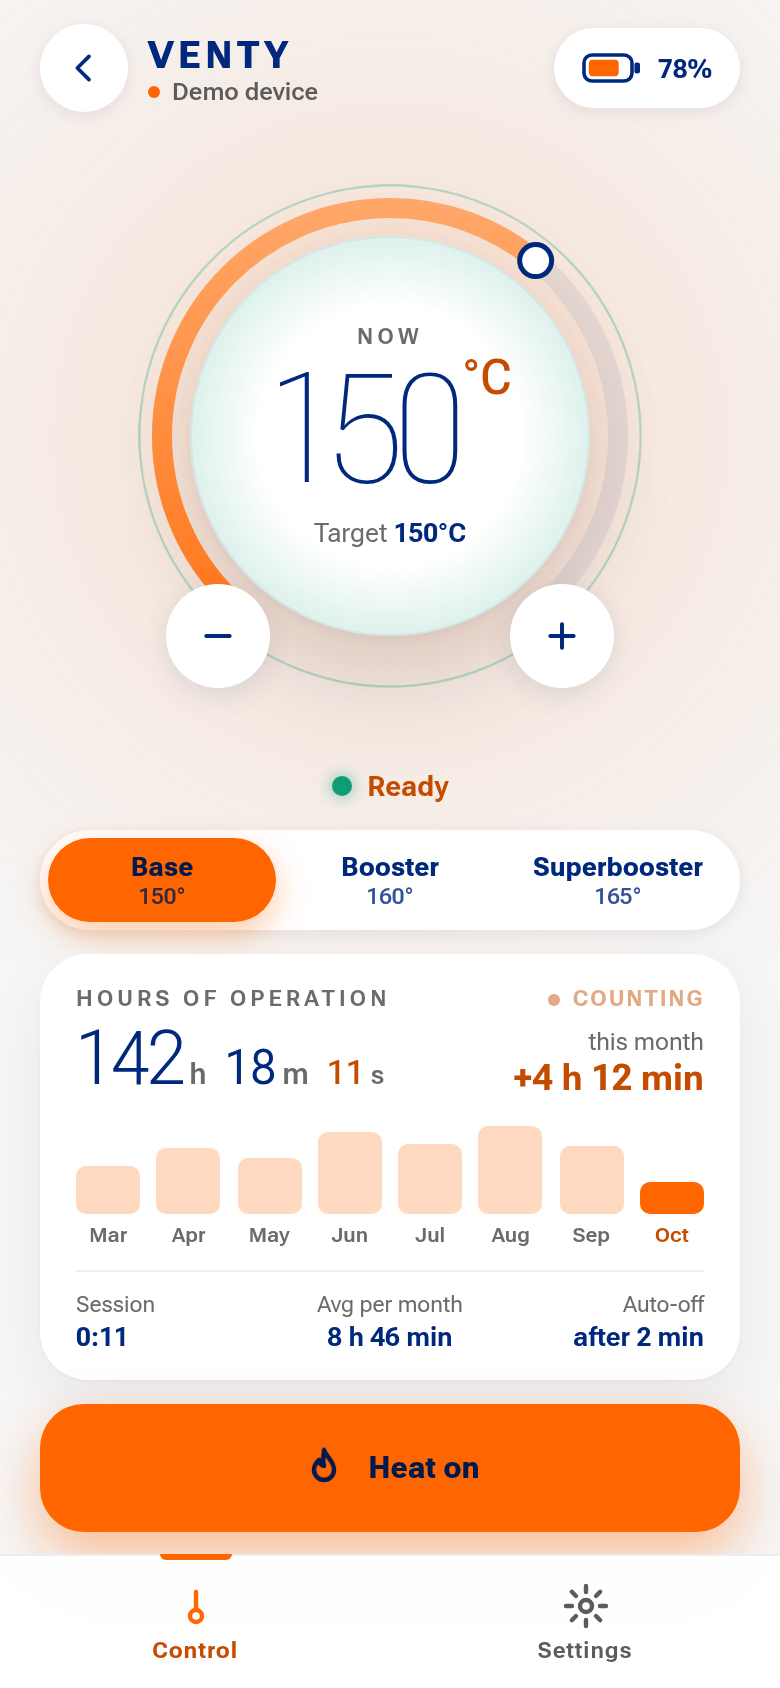
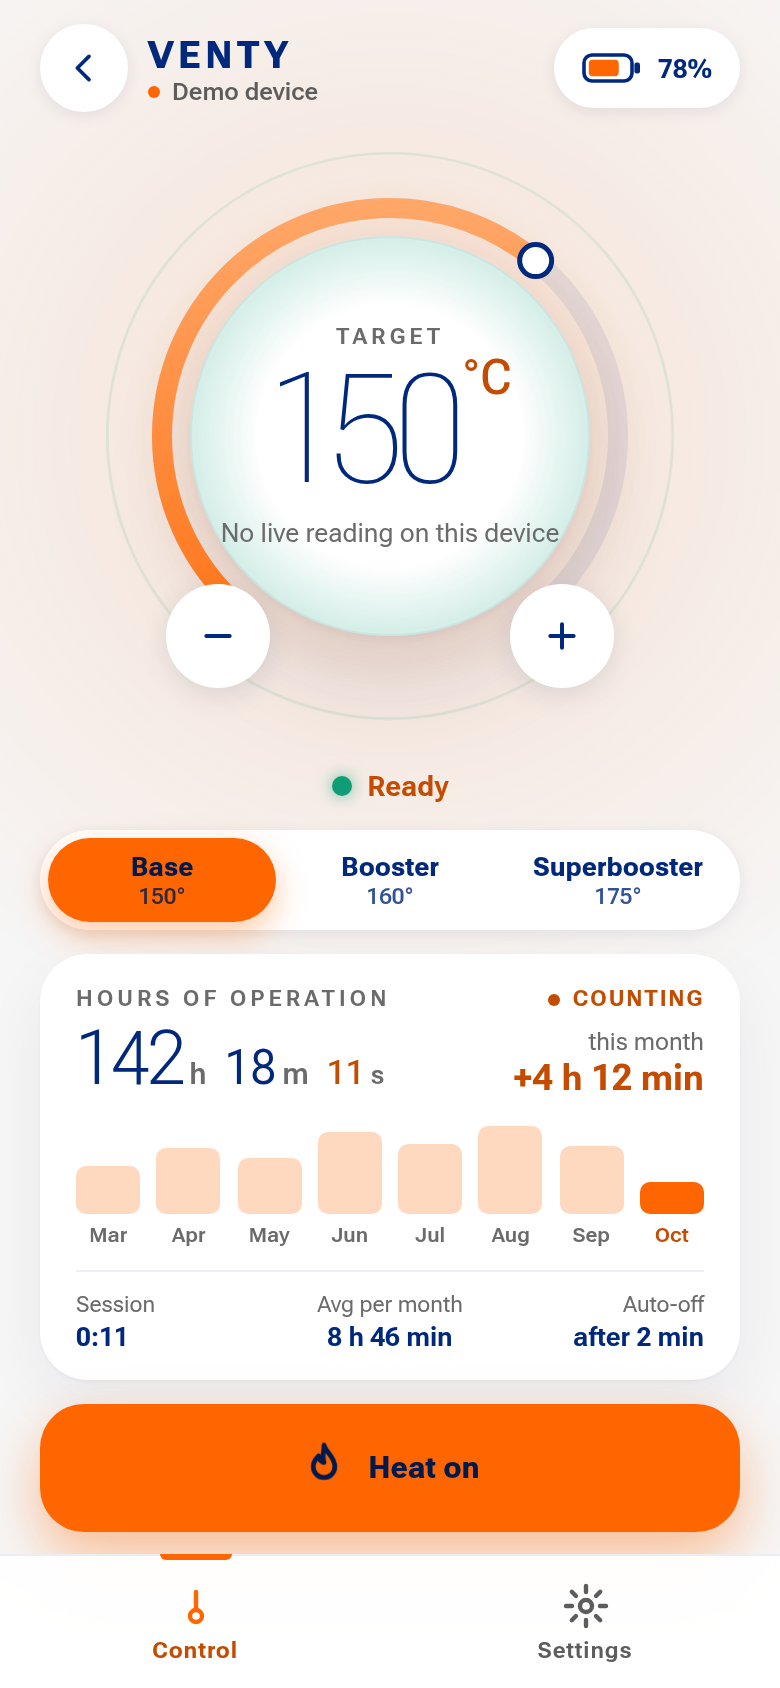
README: VENTY shows the target only, battery voltage, VOLCANO diagnostics, MIGHTY has no Bluetooth
Claude-Session: https://claude.ai/code/session_013Jeydq6niRkUQFhdCJUVJk

diff --git a/README.md b/README.md
@@ -61,12 +61,13 @@ built from the protocol and covered by unit tests.
 | | VENTY | VEAZY | CRAFTY+ | CRAFTY ≥ V02.51 | CRAFTY < V02.51 | VOLCANO HYBRID |
 |---|:---:|:---:|:---:|:---:|:---:|:---:|
 | Auto-connect | ✓ | ✓ | ✅ | ✓ | ✓ | ✓ |
-| Temperature and target | ✓ | ✓ | ✅ | ✓ | ✓ | ✓ |
+| Temperature and target | ✓⁶ | ✓⁶ | ✅ | ✓ | ✓ | ✓ |
 | Heater on / off from the app | ✓ | ✓ | ✅ | ✓ | —¹ | ✓ |
 | Status mirrors the LED | ✓ | ✓ | ✅ | ✓ | ✓ | ✓² |
 | Booster / Superbooster | ✓ | ✓ | ✅³ | ✓³ | ✓³ | — |
 | Booster / Superbooster offsets | ✓ | ✓ | ✓⁴ | ✓⁴ | ✓⁴ | — |
 | Battery level | ✓ | ✓ | ✅ | ✓ | ✓ | — |
+| Battery voltage | — | — | ✓⁷ | ✓⁷ | ✓⁷ | — |
 | Charging / charged | ✓ | ✓ | ✅ | ✓⁵ | — | — |
 | Hours of operation, usage per month | ✓ | ✓ | ✅ | ✓ | ✓ | ✓ |
 | Auto-off countdown | ✓ | ✓ | ✓ | ✓ | — | ✓ |
@@ -74,18 +75,20 @@ built from the protocol and covered by unit tests.
 | Workflows (Flow 1–3, Balloon) | — | — | — | — | — | ✓ |
 | Find My | ✓ | ✓ | ✓ | — | — | — |
 | Device settings | ✓ | ✓ | ✓ | ✓ | ✓ | ✓ |
-| Device diagnostics | — | — | ✅ | ✓ | ✓ | — |
+| Device diagnostics | — | — | ✅ | ✓ | ✓ | ✓ |
 
 <sub>
 ¹ Only with the device's own button. ·
 ² No ready flag; ready means within 1 °C of the target. ·
 ³ A readout: CRAFTY switches levels only with its own button; older CRAFTY has no Superbooster. ·
 ⁴ The Booster offset only; the CRAFTY+ Superbooster is always 15 °C above it. ·
-⁵ Uses the bit found on a CRAFTY+, not yet confirmed on this firmware.
+⁵ Uses the bit found on a CRAFTY+, not yet confirmed on this firmware. ·
+⁶ The target only: VENTY and VEAZY give the app no live temperature, so the dial shows the target and Ready. ·
+⁷ Read the way other open-source clients do, shown only when plausible; not yet confirmed on a device.
 </sub>
 
-**Not supported:** MIGHTY and MIGHTY+. The official web app that Glow's drivers are based on has
-no protocol for them.
+**Not supported:** MIGHTY and MIGHTY+. They have no Bluetooth: STORZ & BICKEL lists the app
+connection only for VOLCANO HYBRID, VENTY, CRAFTY+ and VEAZY.
 
 ## Help test your device
 
